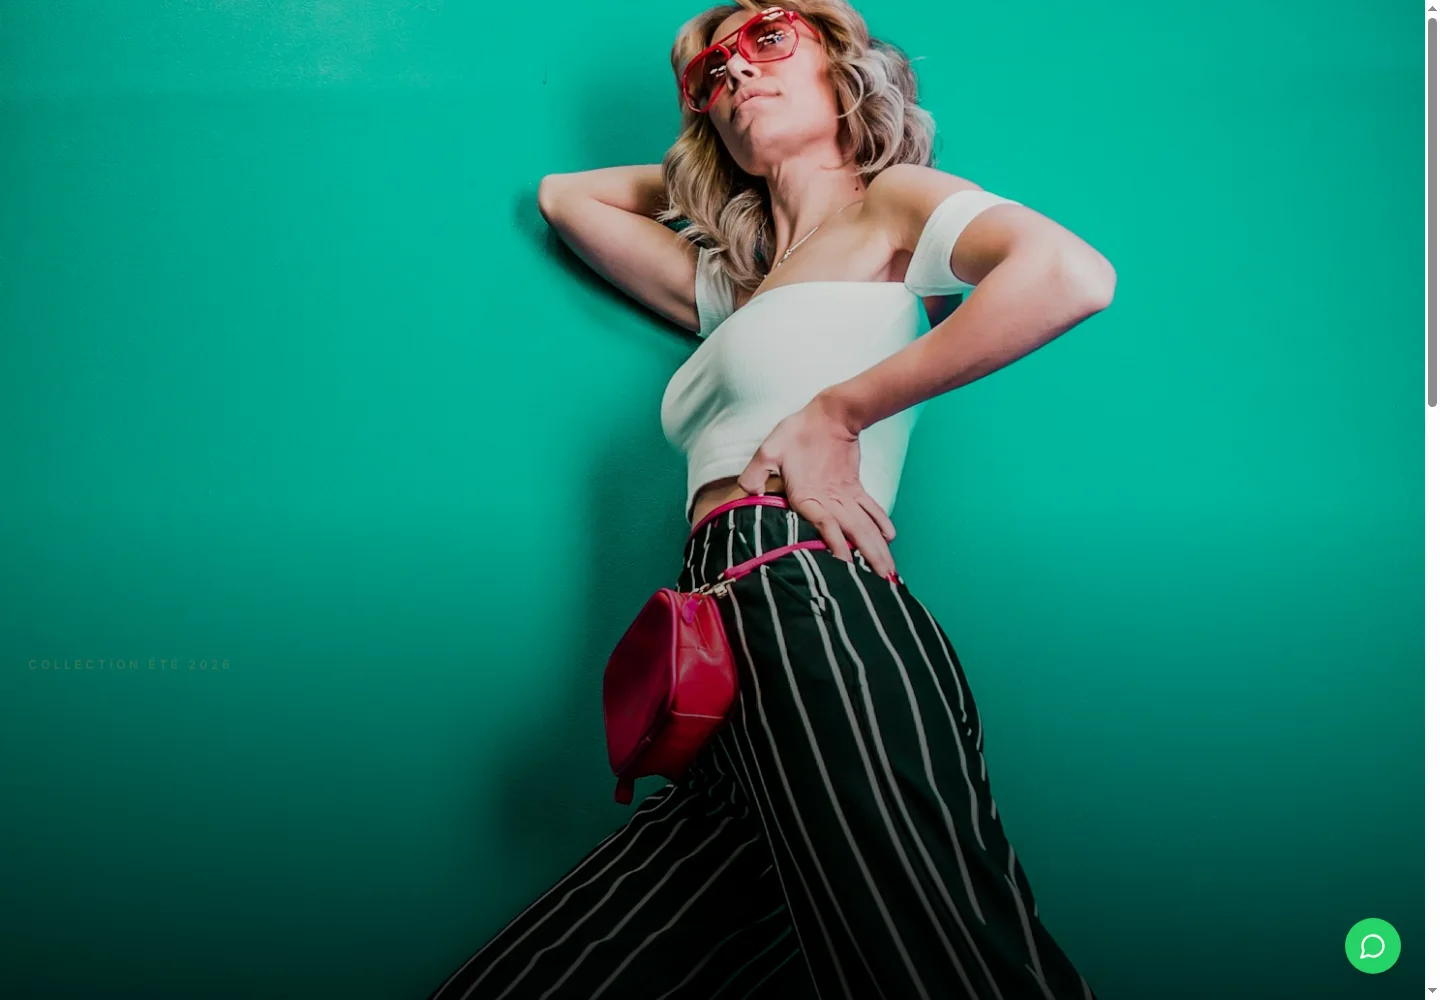
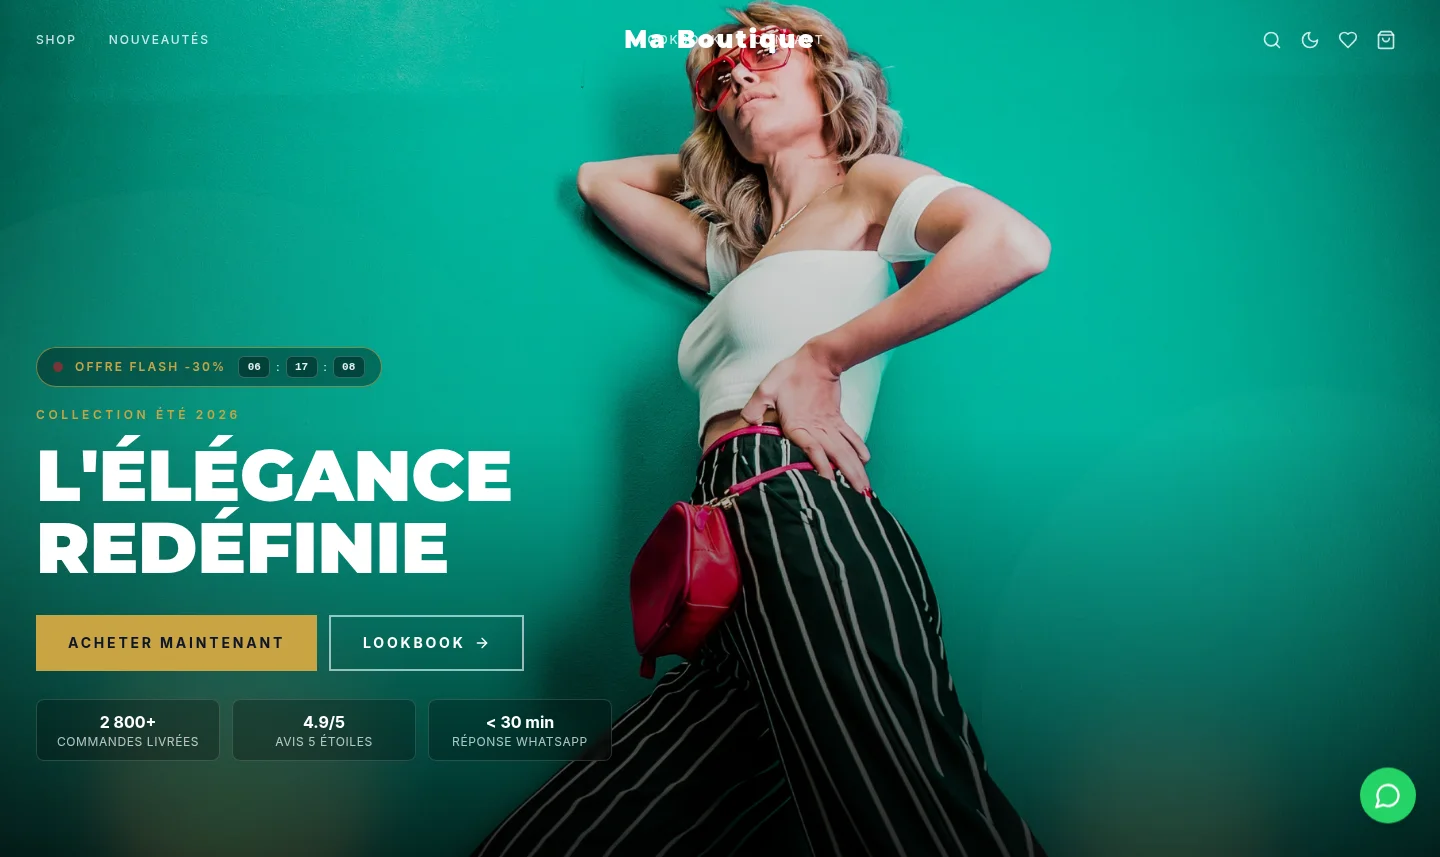
fix: refine exploration gallery

diff --git a/src/components/sections/ProjectShowcase.jsx b/src/components/sections/ProjectShowcase.jsx
@@ -86,13 +86,14 @@ function PublicProjectCard({ project, index, language, codeLabel, requestLabel }
   );
 }
 
-function ExplorationGallery({ language, codeLabel }) {
+function ExplorationGallery({ language }) {
   const [activeSlug, setActiveSlug] = useState(explorations[0].slug);
   const activeProject = explorations.find((project) => project.slug === activeSlug) ?? explorations[0];
-  const title = language === 'fr' ? 'D’autres produits à faire tourner.' : 'More products to explore.';
+  const title = language === 'fr' ? 'D’autres réalisations, à explorer.' : 'More work, ready to explore.';
   const intro = language === 'fr'
-    ? 'Ces prototypes ne portent pas seuls le positionnement, mais ils montrent le volume, le soin d’interface et les terrains que j’ai explorés. Choisissez-en un pour voir ce qu’il contient.'
-    : 'These prototypes do not carry the positioning alone, but they show volume, interface craft and the ground I have explored. Pick one to see what it contains.';
+    ? 'Commerce, réservation, restauration et outils desktop : ces produits complètent les études de cas et montrent la variété des expériences que je conçois et développe.'
+    : 'Commerce, booking, food service and desktop tools: these products complement the case studies and show the variety of experiences I design and develop.';
+  const projectLinkLabel = language === 'fr' ? 'Voir le projet' : 'View project';
 
   return (
     <section className="section-shell exploration-section" aria-labelledby="exploration-title">
@@ -112,7 +113,7 @@ function ExplorationGallery({ language, codeLabel }) {
           <p>{getText(activeProject.description, language)}</p>
           <ul className="public-work-highlights">{getText(activeProject.highlights, language).map((item) => <li key={item}>{item}</li>)}</ul>
           <ul className="tech-list">{activeProject.stack.map((tech) => <li key={tech}>{tech}</li>)}</ul>
-          <a className="public-work-link" href={activeProject.url} target="_blank" rel="noreferrer"><Github />{codeLabel}<ArrowUpRight /></a>
+          <a className="exploration-project-link" href={activeProject.url} target="_blank" rel="noreferrer" aria-label={`${projectLinkLabel} — ${getText(activeProject.title, language)} (GitHub)`}><Github />{projectLinkLabel}<ArrowUpRight /></a>
         </div>
       </article>
     </section>
@@ -140,7 +141,7 @@ export default function ProjectShowcase() {
         </div>
         <a className="public-work-link public-work-link--archive" href={profile.socials.github} target="_blank" rel="noreferrer"><Github />{githubLabel}<ArrowUpRight /></a>
       </section>
-      <ExplorationGallery language={language} codeLabel={codeLabel} />
+      <ExplorationGallery language={language} />
     </>
   );
 }

diff --git a/src/data/projects.js b/src/data/projects.js
@@ -131,7 +131,7 @@ export const explorations = [
     slug: 'vetements-bf', title: 'Vêtements BF', status: l('Boutique éditoriale interactive', 'Interactive editorial storefront'),
     description: l('Une boutique éditoriale avec collections, fiches produit, panier, favoris, lookbook et administration locale.', 'An editorial storefront with collections, product pages, cart, favorites, lookbook and local administration.'),
     highlights: l(['Collections & lookbook', 'Panier & favoris', 'Espace administration'], ['Collections & lookbook', 'Cart & favorites', 'Admin area']), stack: ['React', 'TypeScript', 'Tailwind', 'Commerce UX'], url: 'https://github.com/ArmelKI/v-tementsbf-boutique',
-    media: { src: '/assets/images/projects/vetements-bf-home.webp', width: 1440, height: 1000, alt: l('Accueil de Vêtements BF exécuté depuis le dépôt public.', 'Vêtements BF home screen run from the public repository.') },
+    media: { src: '/assets/images/projects/vetements-bf-home.webp', width: 1440, height: 857, alt: l('Accueil de Vêtements BF exécuté depuis le dépôt public.', 'Vêtements BF home screen run from the public repository.') },
   },
   {
     slug: 'delices-de-mira', title: 'Les Délices de Mira', status: l('Application e-commerce avec administration', 'E-commerce application with administration'),

diff --git a/src/index.css b/src/index.css
@@ -697,6 +697,9 @@ button { color: inherit; }
 .exploration-copy h3 { margin: .7rem 0 .55rem; font-size: clamp(2rem, 4vw, 3.5rem); line-height: .95; letter-spacing: -.06em; }
 .exploration-copy > p:not(.exploration-status) { margin: 0; color: var(--muted); line-height: 1.55; }
 .exploration-copy .public-work-link { align-self: flex-start; margin-top: auto; }
+.exploration-project-link { display: inline-flex; align-items: center; gap: .42rem; align-self: flex-start; margin-top: auto; padding: .55rem .1rem; color: var(--ink); text-decoration: none; font-size: .82rem; font-weight: 850; border-bottom: 2px solid var(--ink); transition: color 160ms ease, gap 160ms ease; }
+.exploration-project-link:hover { color: var(--purple); gap: .64rem; }
+.exploration-project-link svg { width: 16px; }
 
 @media (max-width: 760px) {
   .hero-system li { min-height: 0; }
@@ -719,6 +722,7 @@ button { color: inherit; }
   .exploration-copy { padding: 1rem; }
   .exploration-copy h3 { font-size: clamp(2rem, 10vw, 2.8rem); }
   .exploration-copy .public-work-link { align-self: stretch; }
+  .exploration-project-link { align-self: stretch; justify-content: center; margin-top: 1.15rem; }
 }
 
 /* Portrait-led hero and deliberate motion. */
